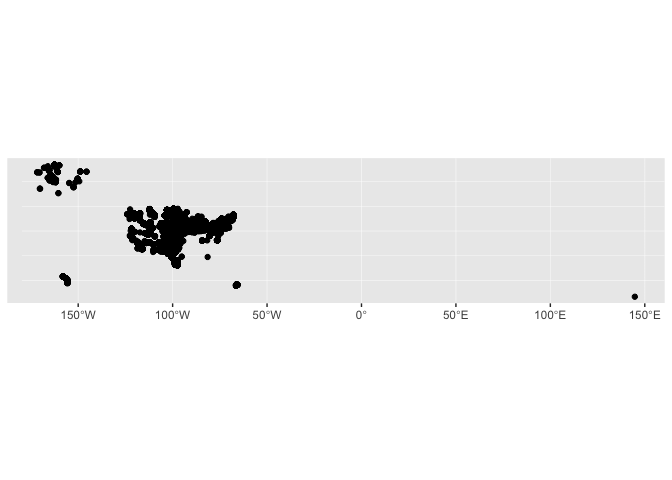
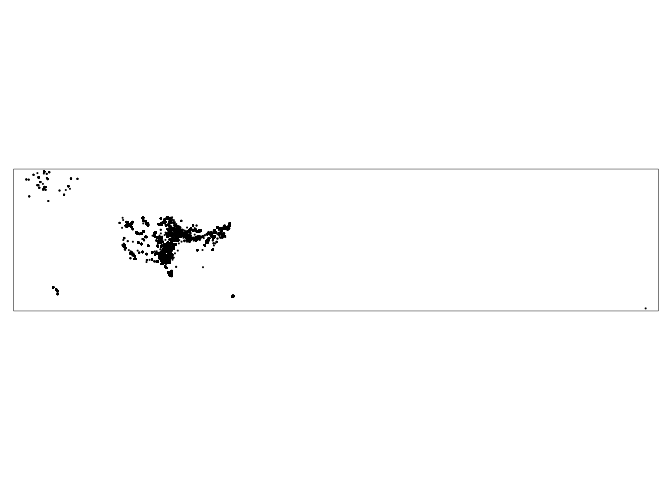
knitted - travis error with libraries

Changed region(s): [[0.0, 0.3125, 1.0, 0.6875]]

diff --git a/analysis.md b/analysis.md
@@ -11,7 +11,6 @@ library(ggplot2)
 library(sf)
 library(tmap)
 library(USAboundaries)
-library(fasterize)
 ```
 
 Introduction
@@ -27,7 +26,7 @@ Loading in files
 ``` r
 wind_turbines <- st_read("uswtdbSHP/uswtdb_v1_2_20181001.shp", quiet=TRUE)
 whooping_crane_corridors <- st_read("WHCR_corridors/WHCR_corridors.shp", quiet=TRUE)
-whooping_crane <- st_read("WhoopingCrane/WhoopingCraneHabitat.shp", quiet=TRUE)
+#whooping_crane <- st_read("WhoopingCrane/WhoopingCraneHabitat.shp", quiet=TRUE)
 
 wind_turbines
 ```
@@ -73,71 +72,8 @@ whooping_crane_corridors
     ## 9  0       50  W POLYGON ((-101020.2 -132200...
 
 ``` r
-whooping_crane
+#whooping_crane
 ```
-
-    ## Simple feature collection with 15331 features and 26 fields
-    ## geometry type:  MULTIPOLYGON
-    ## dimension:      XY
-    ## bbox:           xmin: 239723.8 ymin: 4274293 xmax: 757123.8 ymax: 4543201
-    ## epsg (SRID):    26913
-    ## proj4string:    +proj=utm +zone=13 +datum=NAD83 +units=m +no_defs
-    ## First 10 features:
-    ##    FID_Stream FID_STRE_1   LENGTH STWAT_ID             NAME CO_FIPS
-    ## 1        4018       3837 3419.834        1 East Shell Creek      69
-    ## 2        4034       3853 4058.223        1             <NA>      69
-    ## 3       17179      17017 4224.354        1             <NA>     125
-    ## 4       17589      17429 4621.074        1       Crow Creek     123
-    ## 5       18802      18641  198.527        1       Fish Creek      69
-    ## 6       18803      18642  135.107        1             <NA>      69
-    ## 7       18804      18643  170.080        1   Spotwood Creek      69
-    ## 8       18806      18645  493.665        1             <NA>      69
-    ## 9       18810      18649  555.067        1             <NA>      69
-    ## 10      18812      18651  581.521        1       Fish Creek      69
-    ##    Shape_Leng FID_CODivi DIV        BASIN Perimeter        Area    Acres
-    ## 1   3419.8341          0   1 South Platte   1445412 72759746777 17979325
-    ## 2   4058.2227          0   1 South Platte   1445412 72759746777 17979325
-    ## 3   4224.3535          0   1 South Platte   1445412 72759746777 17979325
-    ## 4   4621.0744          0   1 South Platte   1445412 72759746777 17979325
-    ## 5    198.5272          0   1 South Platte   1445412 72759746777 17979325
-    ## 6    135.1070          0   1 South Platte   1445412 72759746777 17979325
-    ## 7    170.0801          0   1 South Platte   1445412 72759746777 17979325
-    ## 8    493.6646          0   1 South Platte   1445412 72759746777 17979325
-    ## 9    555.0668          0   1 South Platte   1445412 72759746777 17979325
-    ## 10   581.5209          0   1 South Platte   1445412 72759746777 17979325
-    ##    FID_Statew COUNTY CO_FIPS_1 POP_2000 HOUSEHO_00 SHAPE_Le_1 SHAPE_Area
-    ## 1          -1   <NA>         0        0          0          0          0
-    ## 2          -1   <NA>         0        0          0          0          0
-    ## 3          -1   <NA>         0        0          0          0          0
-    ## 4          -1   <NA>         0        0          0          0          0
-    ## 5          -1   <NA>         0        0          0          0          0
-    ## 6          -1   <NA>         0        0          0          0          0
-    ## 7          -1   <NA>         0        0          0          0          0
-    ## 8          -1   <NA>         0        0          0          0          0
-    ## 9          -1   <NA>         0        0          0          0          0
-    ## 10         -1   <NA>         0        0          0          0          0
-    ##    BUFF_DIST ORIG_FID OBJECTID GNIS_ID GNIS_Name L_Miles
-    ## 1         50        0        0    <NA>      <NA>       0
-    ## 2         50        1        0    <NA>      <NA>       0
-    ## 3         50        2        0    <NA>      <NA>       0
-    ## 4         50        3        0    <NA>      <NA>       0
-    ## 5         50        4        0    <NA>      <NA>       0
-    ## 6         50        5        0    <NA>      <NA>       0
-    ## 7         50        6        0    <NA>      <NA>       0
-    ## 8         50        7        0    <NA>      <NA>       0
-    ## 9         50        8        0    <NA>      <NA>       0
-    ## 10        50        9        0    <NA>      <NA>       0
-    ##                          geometry
-    ## 1  MULTIPOLYGON (((427692.6 45...
-    ## 2  MULTIPOLYGON (((497293 4538...
-    ## 3  MULTIPOLYGON (((752161.2 44...
-    ## 4  MULTIPOLYGON (((554221.5 45...
-    ## 5  MULTIPOLYGON (((462454.6 45...
-    ## 6  MULTIPOLYGON (((486626.7 45...
-    ## 7  MULTIPOLYGON (((503211.9 45...
-    ## 8  MULTIPOLYGON (((448002.7 45...
-    ## 9  MULTIPOLYGON (((450098.4 45...
-    ## 10 MULTIPOLYGON (((460302.6 45...
 
 Mapping Wind Turbines
 =====================
@@ -145,16 +81,15 @@ Mapping Wind Turbines
 Next, I plot the maps of the location of wind turbines using `ggplot` and the `geom_sf` command.
 
 ``` r
-ggplot(wind_turbines) + geom_sf()
+#ggplot(wind_turbines) + geom_sf()
+tm_shape(wind_turbines) + tm_dots()
 ```
 
 ![](analysis_files/figure-markdown_github/unnamed-chunk-3-1.png)
 
 ``` r
-tm_shape(wind_turbines) + tm_dots()
+#todo add map overlay on this
 ```
-
-![](analysis_files/figure-markdown_github/unnamed-chunk-3-2.png)
 
 ``` r
 land <- us_states()
